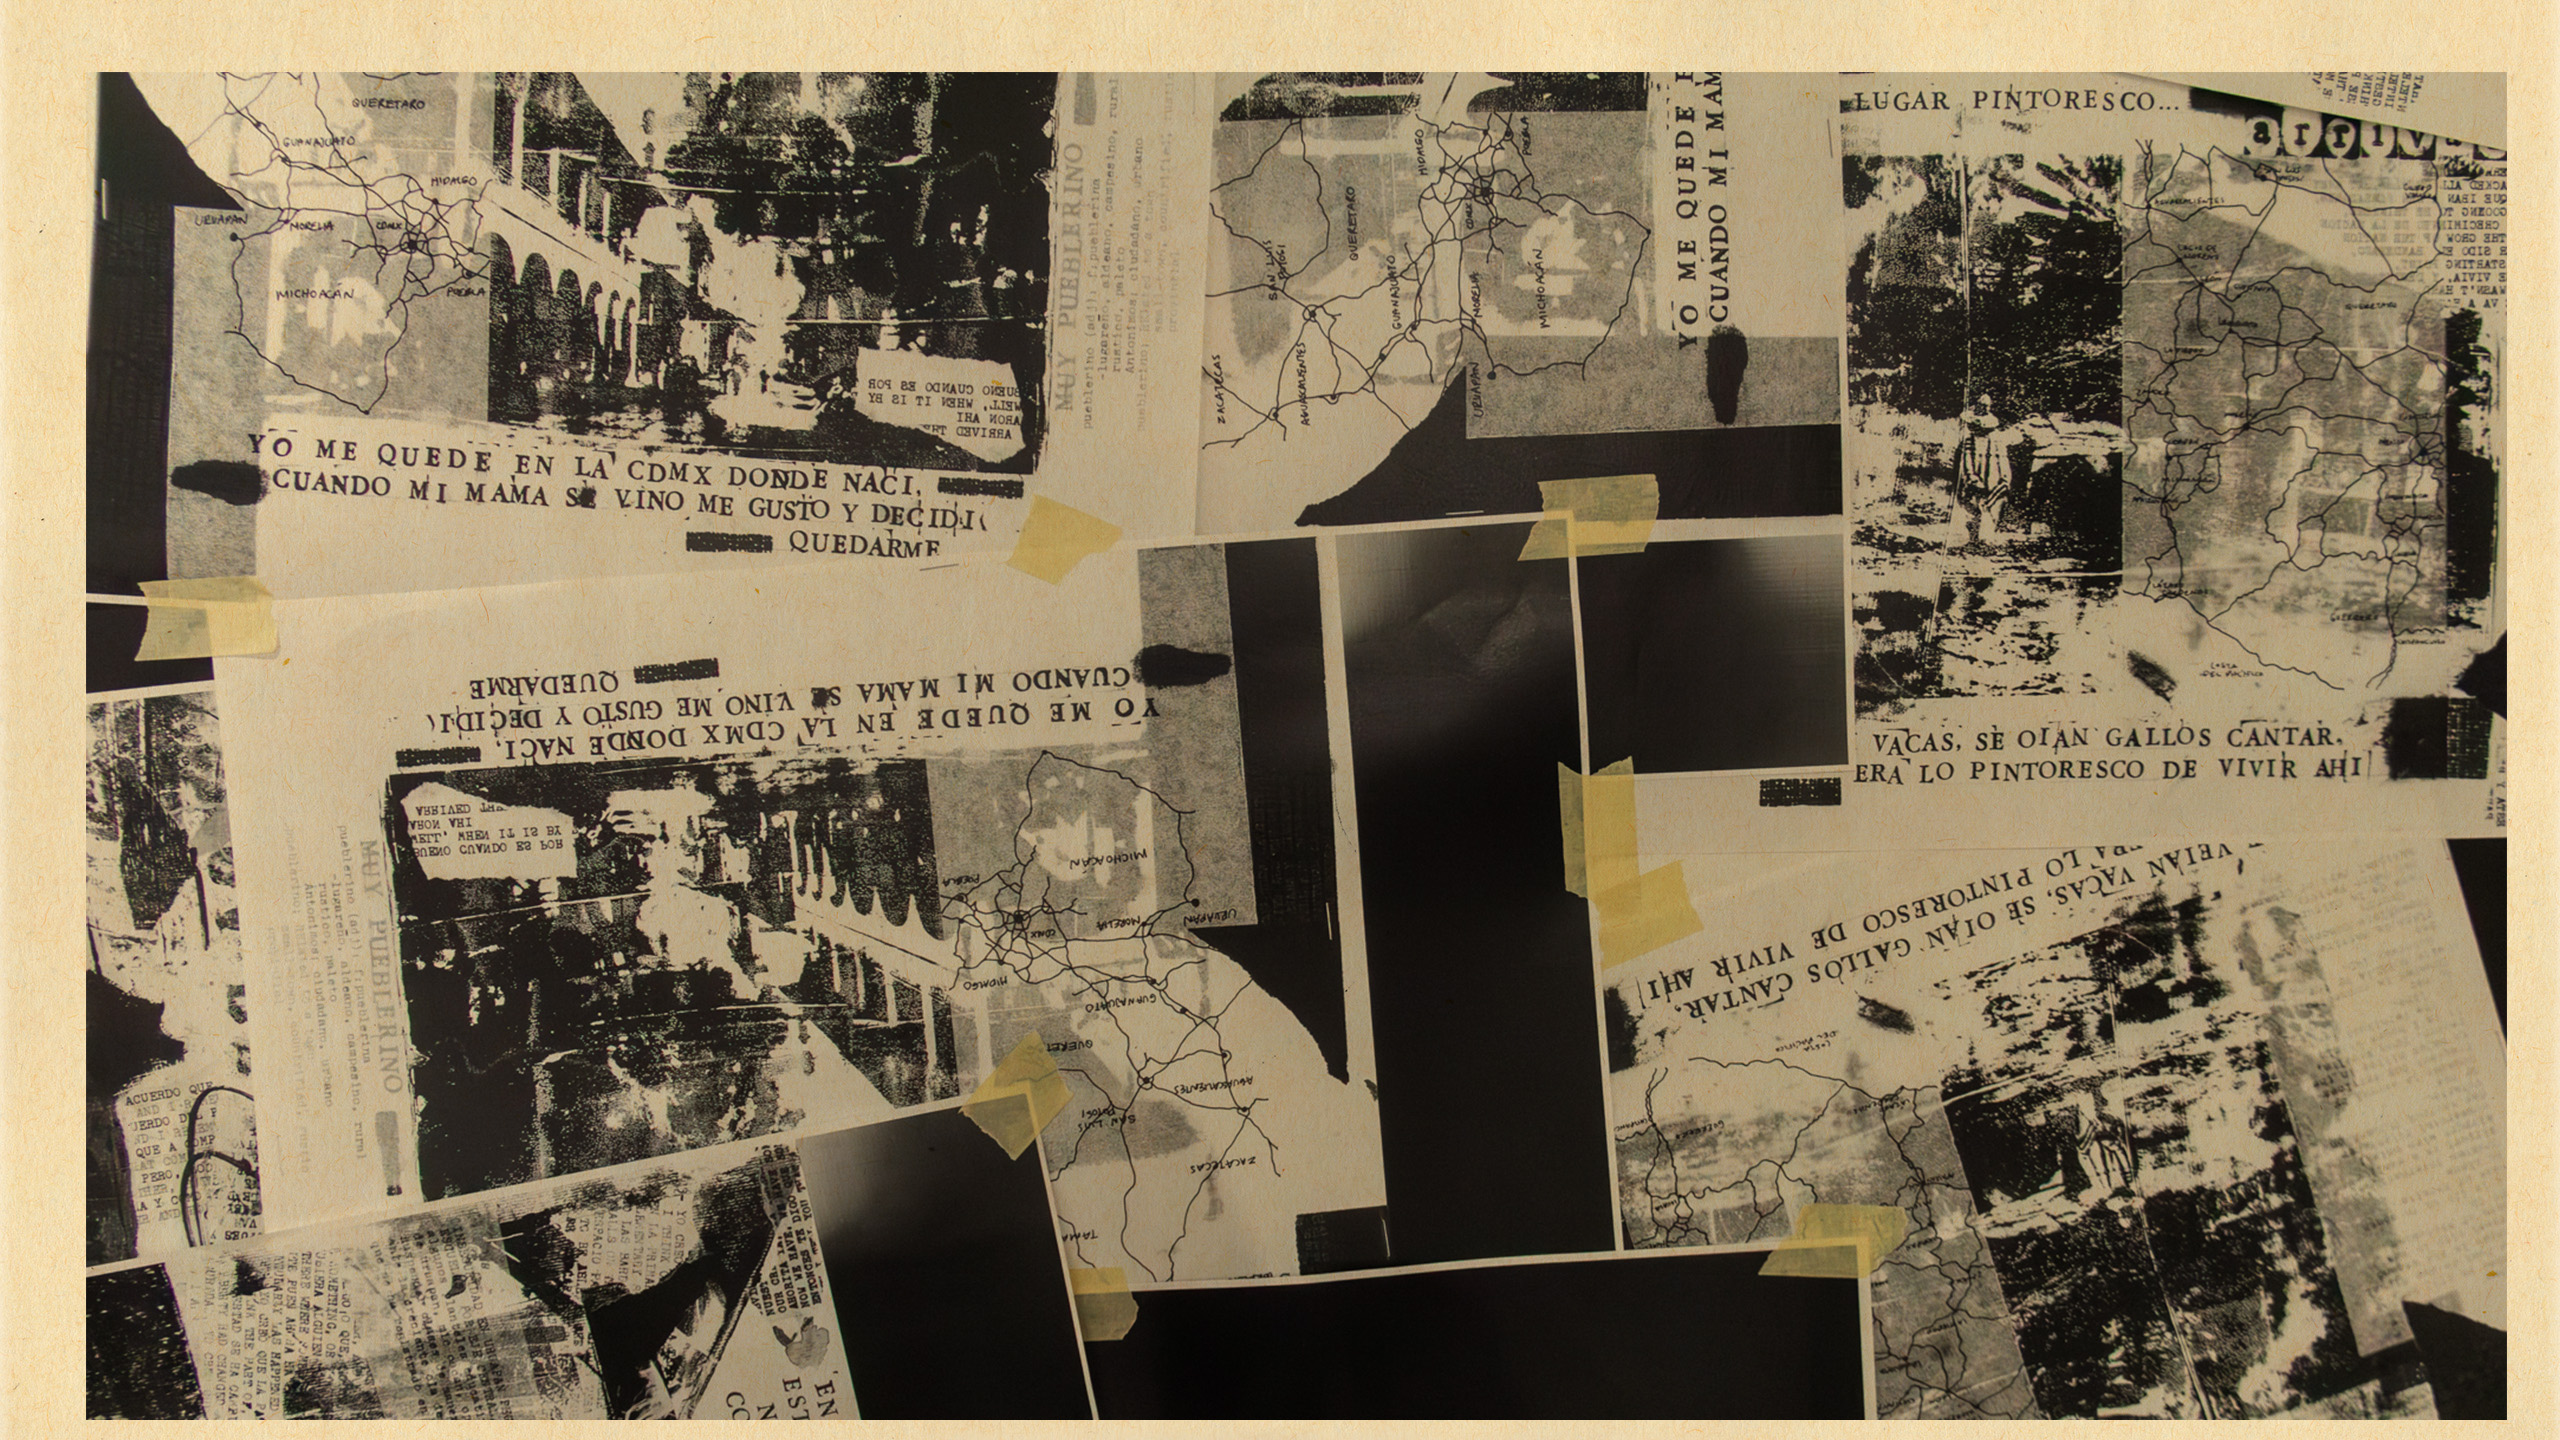
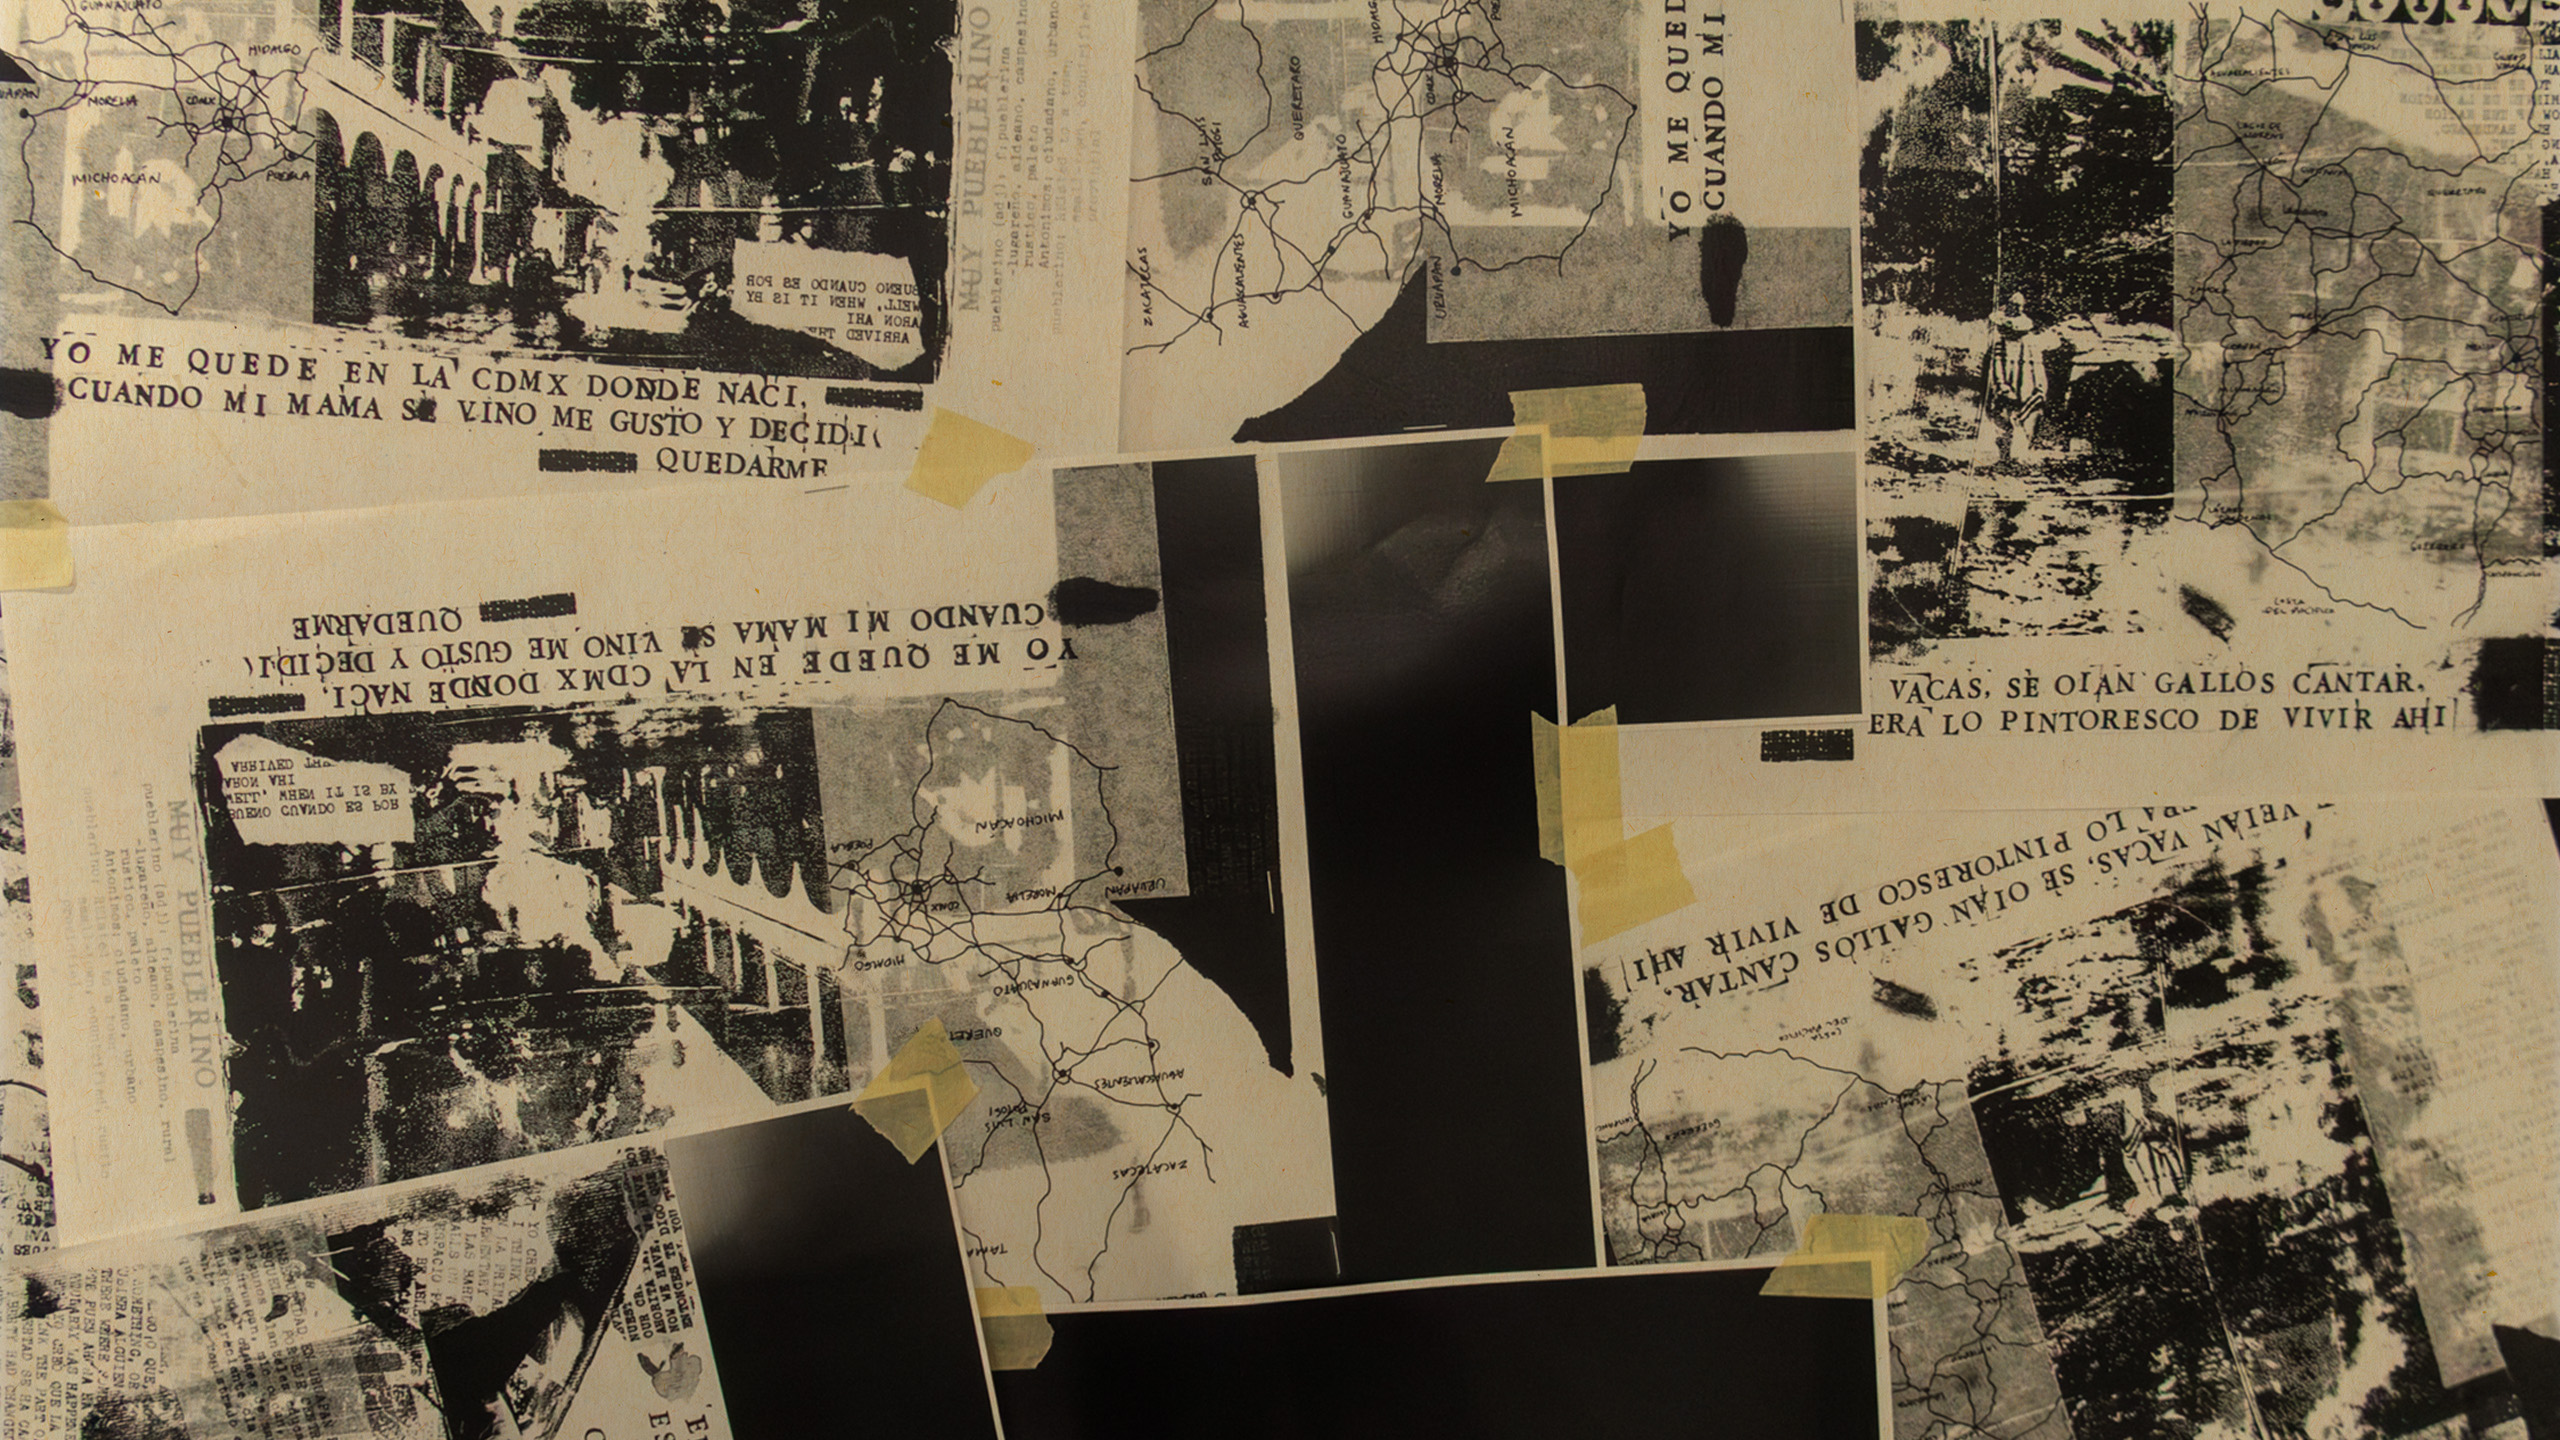
updates image

diff --git a/style.css b/style.css
@@ -516,6 +516,24 @@ body.testimonies-page {
   background-image: url("imgs/bg-img3.jpg");
 }
 
+body.testimonies-page .inner-header h1 {
+  color: white;
+}
+
+body.testimonies-page .home-button,
+body.testimonies-page .home-button:visited {
+  color: white;
+}
+
+body.testimonies-page .home-button:hover,
+body.testimonies-page .home-button:focus-visible {
+  color: red;
+}
+
+body.testimonies-page .inner-divider-top {
+  border-top-color: white;
+}
+
 
 /* Scrollable centre area containing the six buttons */
 